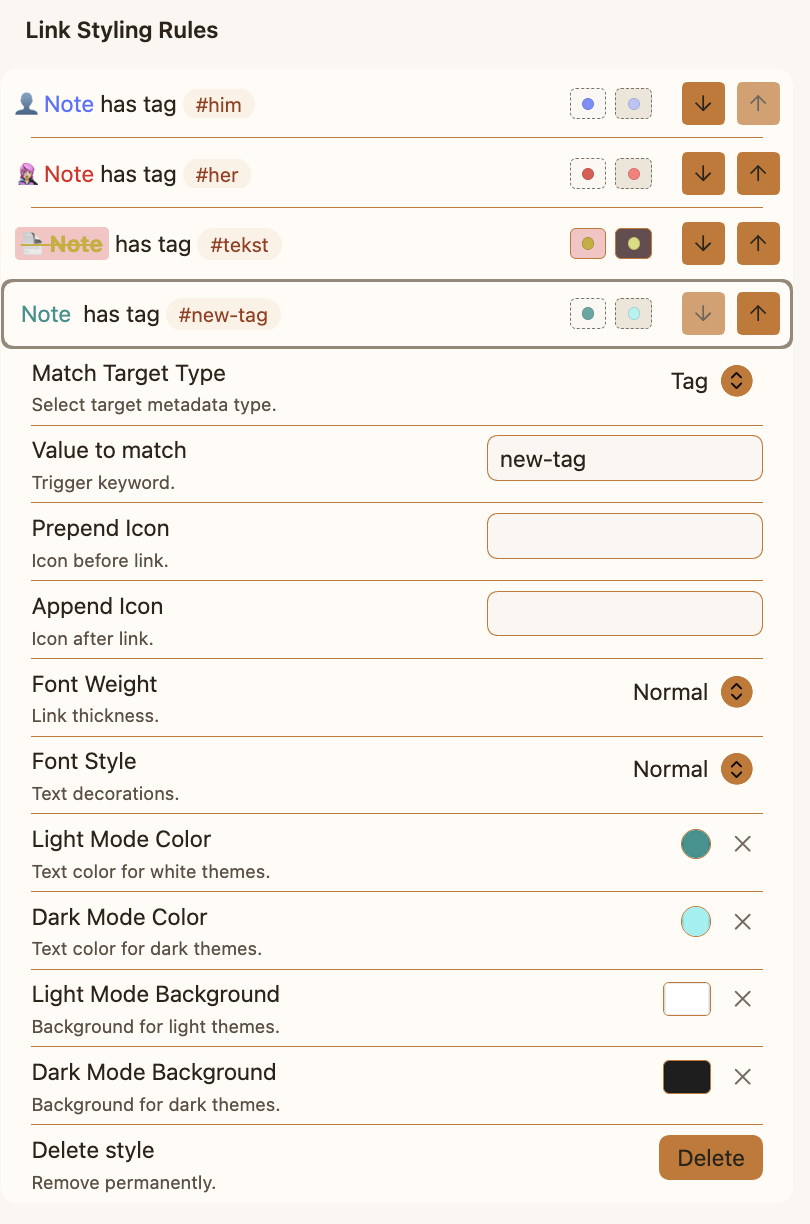
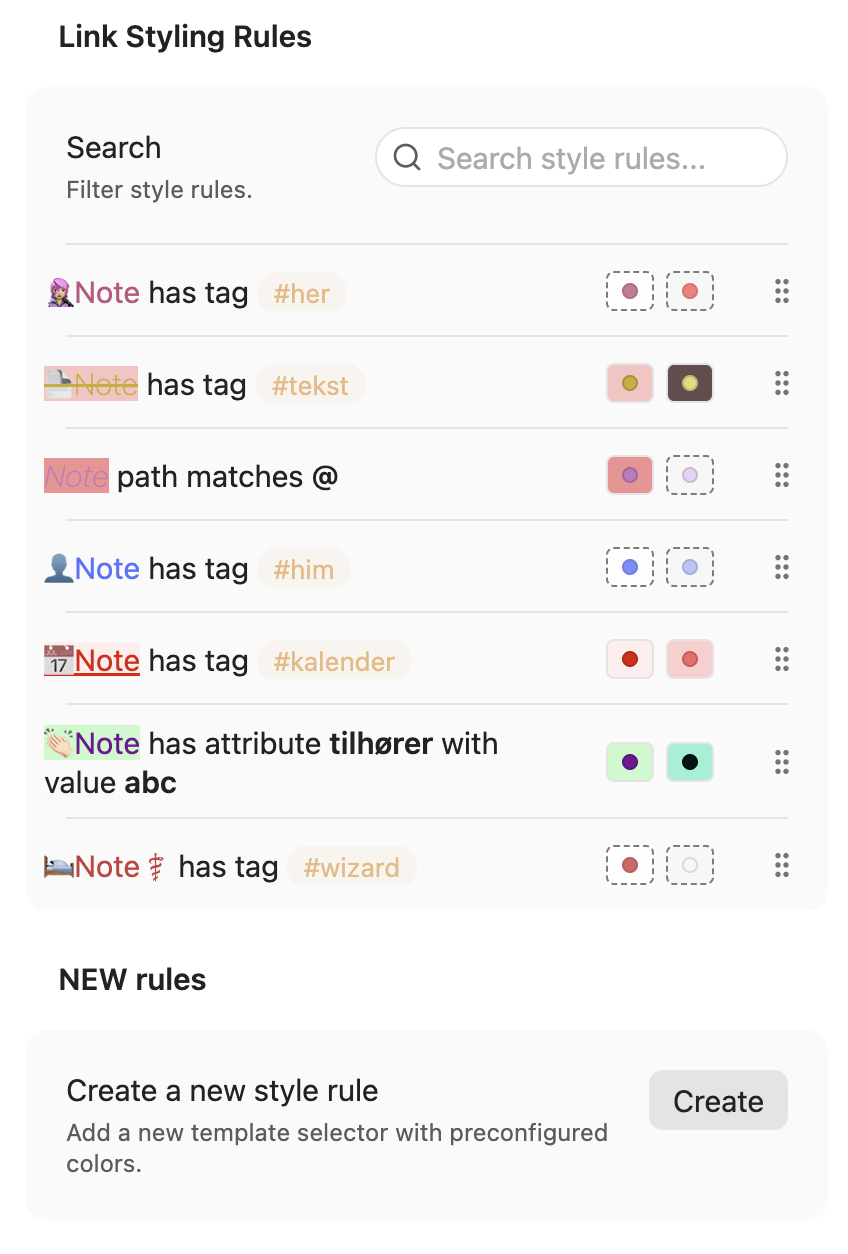
readme + imgs

diff --git a/README.md b/README.md
@@ -13,11 +13,7 @@ A modernized, highly optimized, and decoupled fork of the original *Supercharged
 
 **Styles are built end fully edited in settings panel**
 
-<img src="media/details.png" alt="Settings panel" style="max-width: 100%; width: 500px; height: auto; border-radius: 8px;">
-
-**typical phone display**
-
-<img src="media/phone1.png" alt="Phone Settings panel" style="max-width: 100%; width: 250px; height: auto; border-radius: 8px;"> <img src="media/phone2.png" alt="Phone Settings details" style="max-width: 100%; width: 250px; height: auto; border-radius: 8px;">
+<img src="media/details.png" alt="Phone Settings panel" style="max-width: 100%; width: 250px; height: auto; border-radius: 8px;"> <img src="media/details2.png" alt="Phone Settings details" style="max-width: 100%; width: 250px; height: auto; border-radius: 8px;">
 
 ---
 
